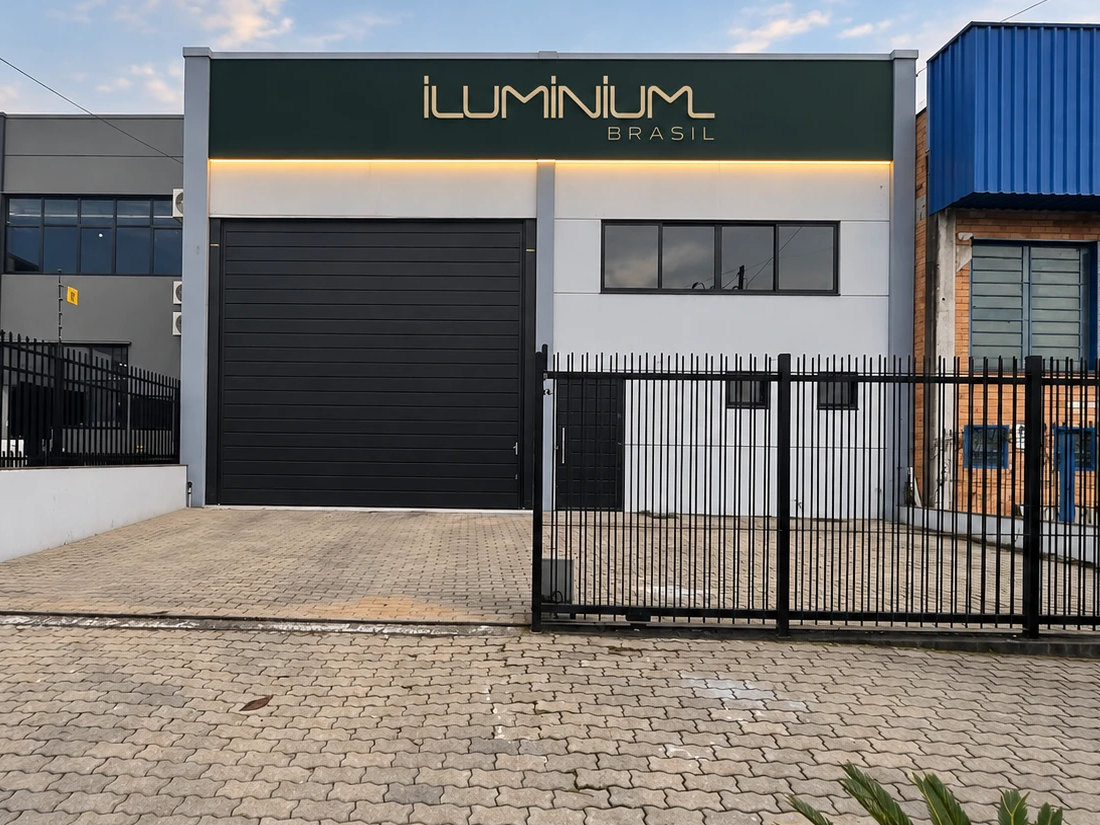
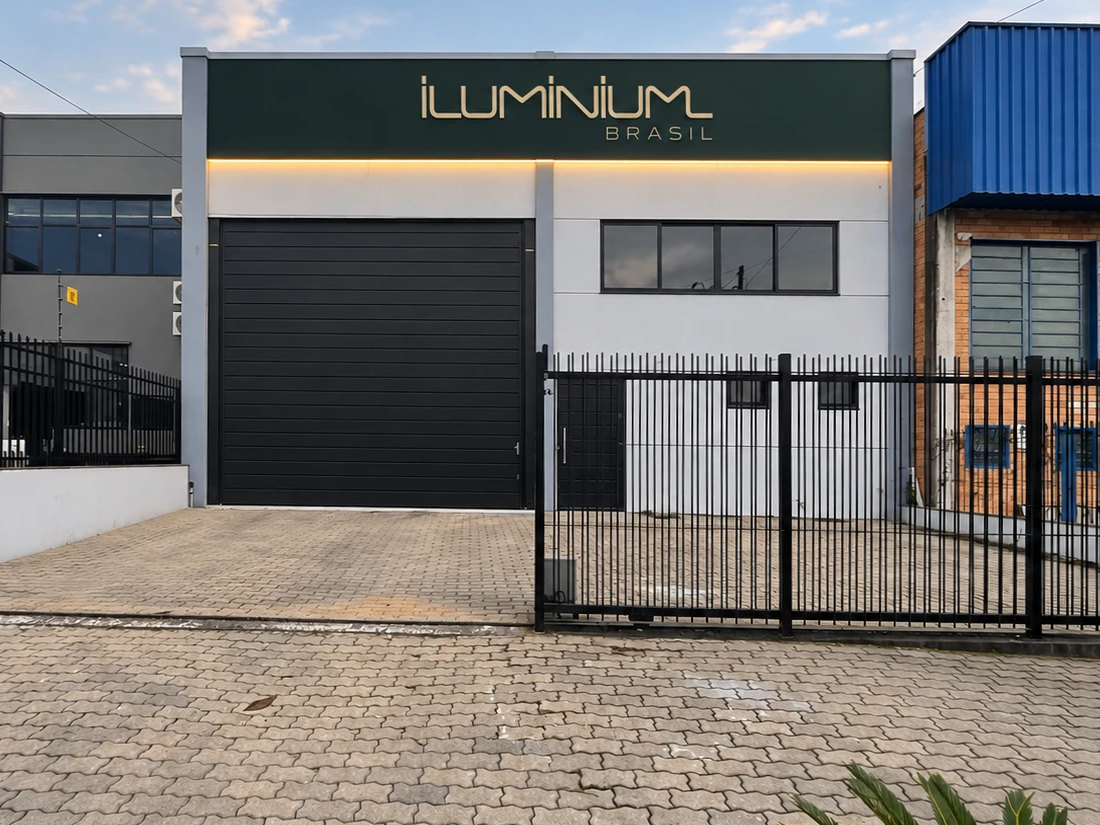
Endereço novo (R. Adolpho Libardi, 557 - São Virgílio) no site e no mapa; foto da fachada endireitada

diff --git a/index.html b/index.html
@@ -260,17 +260,17 @@
       <h2>Onde estamos</h2>
       <p>Visita técnica, retirada de pedidos ou só pra conhecer a fábrica — combine um horário antes de vir.</p>
       <ul>
-        <li><strong>Endereço</strong><span>R. Júpiter, 1205, bairro Cruzeiro<br>Caxias do Sul/RS, CEP 95076-650</span></li>
+        <li><strong>Endereço</strong><span>R. Adolpho Libardi, 557, bairro São Virgílio<br>Caxias do Sul/RS, CEP 95076-144</span></li>
         <li><strong>Horário</strong>Segunda a sexta, 8h às 18h</li>
         <li><strong>Telefone</strong>(00) 0000-0000</li>
       </ul>
     </div>
     <div class="map-frame">
       <iframe
-        src="https://www.google.com/maps?q=R.+J%C3%BApiter,+1205+-+Cruzeiro,+Caxias+do+Sul+-+RS,+95076-650&output=embed"
+        src="https://www.google.com/maps?q=R.+Adolpho+Libardi,+557+-+S%C3%A3o+Virg%C3%ADlio,+Caxias+do+Sul+-+RS,+95076-144&output=embed"
         loading="lazy"
         referrerpolicy="no-referrer-when-downgrade"
-        title="Mapa: Iluminium Brasil, R. Júpiter 1205, Cruzeiro, Caxias do Sul/RS">
+        title="Mapa: Iluminium Brasil, R. Adolpho Libardi 557, São Virgílio, Caxias do Sul/RS">
       </iframe>
     </div>
   </div>
